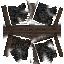
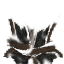
Wooden wall breaking animation work

diff --git a/index.html b/index.html
@@ -479,7 +479,15 @@ const SECTIONS = [
         ['assets/tiles/wall_wooden_break1.png', 70],
         ['assets/tiles/wall_wooden_break2.png', 70],
         ['assets/tiles/wall_wooden_break3.png', 70],
+        ['assets/tiles/wall_wooden_broken1.png', 1200],
         ['assets/tiles/wall_wooden.png', 10],
+      ] },
+    { name: 'Wall Rubble', rest: 'assets/tiles/wall_wooden_broken2.png',
+      sounds: [A + 'environment/broken_wall1.wav'],
+      frames: [
+        ['assets/tiles/wall_wooden_broken1.png', 500],
+        ['assets/tiles/wall_wooden_broken2.png', 500],
+        ['assets/tiles/wall_wooden_broken3.png', 500],
       ] },
     { name: 'Pale Mist', rest: 'assets/textures/mist-overlay.png',
       sounds: [A + 'environment/item_room_mist_door.wav'] },